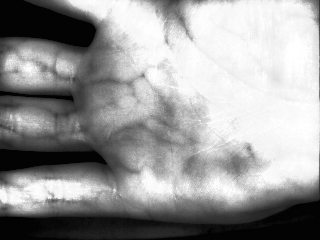
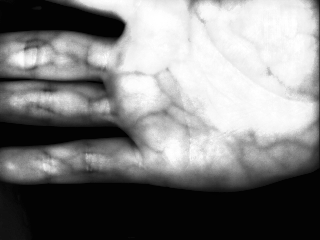
19.06.17 19:58

diff --git a/veinimgonly.py b/veinimgonly.py
@@ -16,10 +16,10 @@ ap.add_argument("-n", "--num-frames", type=int, default=100,
 ap.add_argument("-d", "--display", type=int, default=-1,
 	help="Whether or not frames should be displayed")
 args = vars(ap.parse_args())
-GPIO.setmode(GPIO.BCM)
-butPin=21
-GPIO.setup(butPin,GPIO.IN,pull_up_down=GPIO.PUD_UP)
-GPIO.add_event_detect(butPin, GPIO.RISING)
+#GPIO.setmode(GPIO.BCM)
+#butPin=21
+#GPIO.setup(butPin,GPIO.IN,pull_up_down=GPIO.PUD_UP)
+#GPIO.add_event_detect(butPin, GPIO.RISING)
 # initialize the camera and stream
 # allow the camera to warmup
 vs = PiVideoStream().start()
@@ -33,7 +33,7 @@ train=0
 #trainpic2=cv2.imread("trainimg2.png",0)
 #trainpic3=cv2.imread("trainimg3.png",0)
 #trainpic4=cv2.imread("trainimg4.png",0)
-orb = cv2.ORB()
+#orb = cv2.ORB()
 #kptr1, destr1 = orb.detectAndCompute(trainpic1,None)
 #kptr2, destr2 = orb.detectAndCompute(trainpic2,None)
 #kptr3, destr3 = orb.detectAndCompute(trainpic3,None)
@@ -118,30 +118,29 @@ while 1:
     cl2=clahe.apply(eqhsub)
     blur3=cv2.medianBlur(cl2,3)
     eqhsub2=cv2.equalizeHist(blur3)
-    ret,th1 = cv2.threshold(eqhsub2,100,255,cv2.THRESH_BINARY_INV)  
+    ret,th1 = cv2.threshold(eqhsub2,145,255,cv2.THRESH_BINARY_INV)
     kernel = np.ones((3,3), np.uint8)
     img_erosion = cv2.dilate(th1, kernel, iterations=1)
     img_dilate = cv2.erode(img_erosion, kernel, iterations=1)
-    kpin,destrin = orb.detectAndCompute(cl1,None)
+    #kpin,destrin = orb.detectAndCompute(cl1,None)
 	
-    if GPIO.event_detected(butPin):
-	inimage=cl1
-	if fix==0:
-		print ("input taken")
-		if train==0:
-			cv2.imwrite("trainimg1.png",inimage)
-		elif train==1:
-			cv2.imwrite("trainimg2.png",inimage)
-		elif train==2:
-			cv2.imwrite("trainimg3.png",inimage)
-		elif train==3:
-			cv2.imwrite("trainimg4.png",inimage)
-		else:
-			train=2
-	else :
-		fix=-1
-		train+=1
-	fix+=1
+    #if GPIO.event_detected(butPin):
+	#inimage=cl1
+	#if fix==0:
+		#if train==0:
+		#	cv2.imwrite("trainimg1.png",inimage)
+		#elif train==1:
+		#	cv2.imwrite("trainimg2.png",inimage)
+		#elif train==2:
+		#	cv2.imwrite("trainimg3.png",inimage)
+		#elif train==3:
+		#	cv2.imwrite("trainimg4.png",inimage)
+		#else:
+		#	train=2
+	#else :
+	#	fix=-1
+	#	train+=1
+	#fix+=1
 		
 	#if train==0:
 	#        cv2.imwrite("trainimg1.png",inimage)
@@ -209,8 +208,8 @@ while 1:
     #eqhsub=cv2.equalizeHist(subtracted)
     # ret2,th2 = cv2.threshold(eqhsub,126,255,cv2.THRESH_BINARY_INV)
     # show the frame
-    outimg = cv2.drawKeypoints(cl1, kpin, None, color=(0,255,0), flags=0)
-    cv2.imshow("Frame",outimg)
+    #outimg = cv2.drawKeypoints(cl1, kpin, None, color=(0,255,0), flags=0)
+    cv2.imshow("Frame",img_dilate)
     cv2.moveWindow("Frame",0,0)
     cv2.setWindowProperty("Frame",cv2.WND_PROP_FULLSCREEN,cv2.cv.CV_WINDOW_FULLSCREEN)
     key = cv2.waitKey(1) & 0xFF

diff --git a/threaddeneme.py b/threaddeneme.py
@@ -212,7 +212,10 @@ while 1:
 		matchlist.append(match2)
 		matchlist.append(match3)
 		matchlist.append(match4)
-	
+		match1 = sorted(match1, key = lambda x:x.distance)
+		match2 = sorted(match2, key = lambda x:x.distance)
+		match3 = sorted(match3, key = lambda x:x.distance)
+		match4 = sorted(match4, key = lambda x:x.distance)
 		matchknn1 = bf1.knnMatch(destrin,destr1,k=2)
 		matchknn2 = bf1.knnMatch(destrin,destr2,k=2)
 		matchknn3 = bf1.knnMatch(destrin,destr3,k=2)
@@ -232,7 +235,6 @@ while 1:
         	matchlistflnn.append(matchflnn2)
         	matchlistflnn.append(matchflnn3)
         	matchlistflnn.append(matchflnn4)
-	
 		goodinputm=[]
 		goodinputmknn=[]
 		goodinputmflnn=[]
@@ -260,10 +262,10 @@ while 1:
 	        print ("ratio of good bf matches to trained keypoints%",percentm ,"ratio of good knn matches to trained keypoints%" ,percentknn,"ratio of good flann matches to trained keypoints%" ,percentflnn)
 		if  (percentm >= 35 and percentknn >= 6 and percentflnn >= 6):
 			outimg=cv2.imread("matched.png",0)
-			printimg1=drawMatches(cl1,kpin,trainpic1,kptr1,match1)
-			printimg2=drawMatches(cl1,kpin,trainpic2,kptr2,match2)
-			printimg3=drawMatches(cl1,kpin,trainpic1,kptr3,match3)
-			printimg4=drawMatches(cl1,kpin,trainpic1,kptr4,match4)
+			printimg1=drawMatches(cl1,kpin,trainpic1,kptr1,match1[:10])
+			printimg2=drawMatches(cl1,kpin,trainpic2,kptr2,match2[:10])
+			printimg3=drawMatches(cl1,kpin,trainpic3,kptr3,match3[:10])
+			printimg4=drawMatches(cl1,kpin,trainpic4,kptr4,match4[:10])
 			cv2.imwrite("matched1.png",printimg1)
 			cv2.imwrite("matched2.png",printimg2)
 			cv2.imwrite("matched3.png",printimg3)
